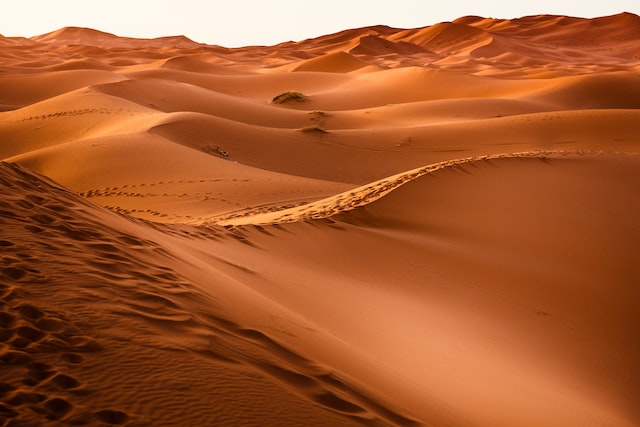
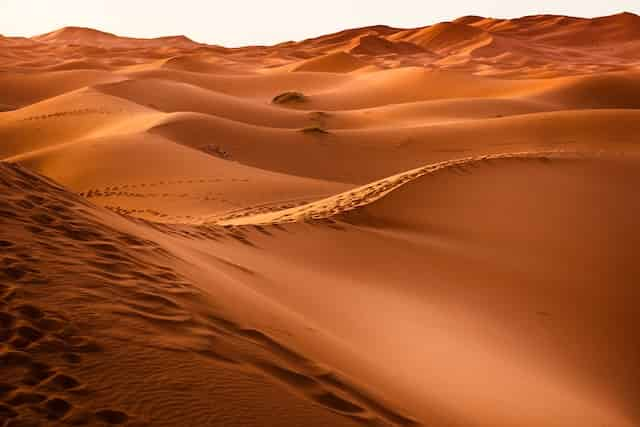
v0.9.4: Compressed images for improved performance

diff --git a/scripts/slider-app.js b/scripts/slider-app.js
@@ -28,11 +28,9 @@ const sliderConfig = {
     methods: {
         // Next and Previous Buttons
         next: function() {
-            console.log('DEBUG - next');
             moveCarousel(this.carouselImg, this.carouselNavImg, 'next');
         },
         previous: function() {
-            console.log('DEBUG - previous');
             moveCarousel(this.carouselImg, this.carouselNavImg, 'previous');
         },
 
@@ -40,7 +38,6 @@ const sliderConfig = {
         thumbNavClick: function() {
             for (let imgIdx = 0; imgIdx < this.carouselNavImg.length; imgIdx++) {
                 this.carouselNavImg[imgIdx].addEventListener('click', () => {
-                    console.log('DEBUG - carouselNavImg Click: OK!');
                     activeImgIdx = imgIdx; // When the thumbnail is clicked, assign the thumbnail's index as the new active index
             
                     for (let j = 0; j < this.carouselNavImg.length; j++) {
@@ -62,7 +59,6 @@ const sliderConfig = {
         // DOM Elements
         this.carouselImg.push(...document.querySelectorAll('.ms_carousel-img'));
         this.carouselNavImg.push(...document.querySelectorAll('.ms_carousel-nav-img'));
-        console.log('Carousel Img', this.carouselImg, this.carouselNavImg);
 
         this.carouselImg[activeImgIdx].classList.add('active');
         this.carouselNavImg[activeImgIdx].classList.add('active');

diff --git a/scripts/utilities.js b/scripts/utilities.js
@@ -41,7 +41,6 @@ function moveCarousel (imgs, nav, direction) {
     clearInterval(autoSlideInterval);
 
     for (let imgIdx = 0; imgIdx < imgs.length; imgIdx++) {
-        console.log('DEBUG - renderImages: OK!');
         // Define direction: 
         direction = (direction === 'previous' || direction === 'back' || direction === -1) ? -1 : 1;
 

diff --git a/index.html b/index.html
@@ -3,7 +3,7 @@
 <!-- METADATA -->
 <head>
     <title>A simple Sliding Carousel | by Elias</title>
-    <link rel="shortcut icon" href="favicon.ico" type="image/x-icon">
+    <!-- <link rel="shortcut icon" href="favicon.ico" type="image/x-icon"> -->
 
     <meta charset="UTF-8">
     <meta http-equiv="X-UA-Compatible" content="IE=edge">

diff --git a/README.md b/README.md
@@ -2,6 +2,10 @@
 
 ## Versions
 
+### 0.9.4: Compressed images for improved performance
+
+* Reduced size by ~66%
+
 ### 0.9.3: Auto Slide added
 
 ### 0.9.2: Added thumbnail navigation
